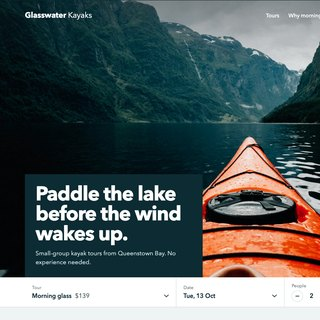
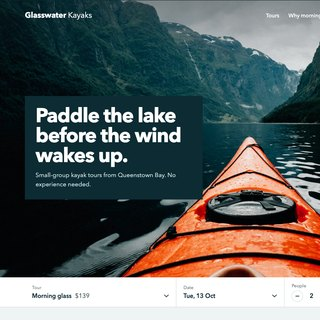
Kayak example: centre the hero text card on desktop

Changed region(s): [[0.0625, 0.2812, 0.6562, 0.875]]

diff --git a/index.html b/index.html
@@ -115,7 +115,7 @@
   </div>
   <ul class="work-track" tabindex="0" aria-label="Websites I've designed. Scroll sideways to see more.">
       <li><a href="examples/wellington-cafe/" target="_blank" rel="noopener"><img src="img/examples/wellington-cafe-sq.jpg?v=3" alt="Low Tide Kitchen concept: a riso-printed poster site for a surf café, with a live open or shut sticker" width="320" height="320" loading="lazy"><b>Beach café</b><span>Lyall Bay</span></a></li>
-      <li><a href="examples/queenstown-tours/" target="_blank" rel="noopener"><img src="img/examples/queenstown-tours-sq.jpg?v=5" alt="Kayak tour company with online booking" width="320" height="320" loading="lazy"><b>Kayak tours</b><span>Queenstown</span></a></li>
+      <li><a href="examples/queenstown-tours/" target="_blank" rel="noopener"><img src="img/examples/queenstown-tours-sq.jpg?v=6" alt="Kayak tour company with online booking" width="320" height="320" loading="lazy"><b>Kayak tours</b><span>Queenstown</span></a></li>
       <li><a href="examples/christchurch-electrician/" target="_blank" rel="noopener"><img src="img/examples/christchurch-electrician-sq.jpg?v=3" alt="Electrician with a price guide and estimate builder" width="320" height="320" loading="lazy"><b>Electrician</b><span>Christchurch</span></a></li>
       <li><a href="examples/auckland-dentist/" target="_blank" rel="noopener"><img src="img/examples/auckland-dentist-sq.jpg?v=3" alt="Dental clinic with online booking" width="320" height="320" loading="lazy"><b>Dental clinic</b><span>Auckland</span></a></li>
       <li><a href="examples/nelson-ceramics/" target="_blank" rel="noopener"><img src="img/examples/nelson-ceramics-sq.jpg?v=3" alt="Ceramics studio store with a working bag" width="320" height="320" loading="lazy"><b>Online store</b><span>Nelson</span></a></li>

diff --git a/squarespace-website-design.html b/squarespace-website-design.html
@@ -109,7 +109,7 @@
   </div>
   <ul class="work-track" tabindex="0" aria-label="Websites I've designed. Scroll sideways to see more.">
       <li><a href="examples/wellington-cafe/" target="_blank" rel="noopener"><img src="img/examples/wellington-cafe-sq.jpg?v=3" alt="Low Tide Kitchen concept: a riso-printed poster site for a surf café, with a live open or shut sticker" width="320" height="320" loading="lazy"><b>Beach café</b><span>Lyall Bay</span></a></li>
-      <li><a href="examples/queenstown-tours/" target="_blank" rel="noopener"><img src="img/examples/queenstown-tours-sq.jpg?v=5" alt="Kayak tour company with online booking" width="320" height="320" loading="lazy"><b>Kayak tours</b><span>Queenstown</span></a></li>
+      <li><a href="examples/queenstown-tours/" target="_blank" rel="noopener"><img src="img/examples/queenstown-tours-sq.jpg?v=6" alt="Kayak tour company with online booking" width="320" height="320" loading="lazy"><b>Kayak tours</b><span>Queenstown</span></a></li>
       <li><a href="examples/christchurch-electrician/" target="_blank" rel="noopener"><img src="img/examples/christchurch-electrician-sq.jpg?v=3" alt="Electrician with a price guide and estimate builder" width="320" height="320" loading="lazy"><b>Electrician</b><span>Christchurch</span></a></li>
       <li><a href="examples/auckland-dentist/" target="_blank" rel="noopener"><img src="img/examples/auckland-dentist-sq.jpg?v=3" alt="Dental clinic with online booking" width="320" height="320" loading="lazy"><b>Dental clinic</b><span>Auckland</span></a></li>
       <li><a href="examples/nelson-ceramics/" target="_blank" rel="noopener"><img src="img/examples/nelson-ceramics-sq.jpg?v=3" alt="Ceramics studio store with a working bag" width="320" height="320" loading="lazy"><b>Online store</b><span>Nelson</span></a></li>

diff --git a/examples/queenstown-tours/index.html b/examples/queenstown-tours/index.html
@@ -41,7 +41,7 @@ a{color:inherit}
 .top nav .book:hover{text-decoration:none;background:#d8440f}
 
 /* hero: the paddler's view, with the words on a solid card */
-.hero{position:relative;min-height:min(780px,calc(100vh - 110px));min-height:min(780px,calc(100svh - 110px));display:flex;flex-direction:column;justify-content:flex-end;color:#fff;
+.hero{position:relative;min-height:min(780px,calc(100vh - 110px));min-height:min(780px,calc(100svh - 110px));display:flex;flex-direction:column;justify-content:center;padding:90px 0 40px;color:#fff;
   background:#08161a url(img/hero.jpg?v=3) center 62%/cover no-repeat}
 .hero::before{content:"";position:absolute;inset:0;background:linear-gradient(180deg,rgba(8,22,26,.45) 0%,rgba(8,22,26,0) 26%)}
 .hero-in{position:relative}
@@ -221,7 +221,7 @@ footer a{color:#fff}
 .sticky{display:none}
 @media(max-width:860px){
   .top nav a:not(.book){display:none}
-  .hero{min-height:0;padding-top:58svh;background:var(--deep) url(img/hero.jpg?v=3) center top/auto 58svh no-repeat}
+  .hero{min-height:0;padding-top:58svh;padding-bottom:0;background:var(--deep) url(img/hero.jpg?v=3) center top/auto 58svh no-repeat}
   .hero-in{width:100%}
   .hero-card{width:100%;padding:22px 20px 24px}
   .hero h1{font-size:34px}
